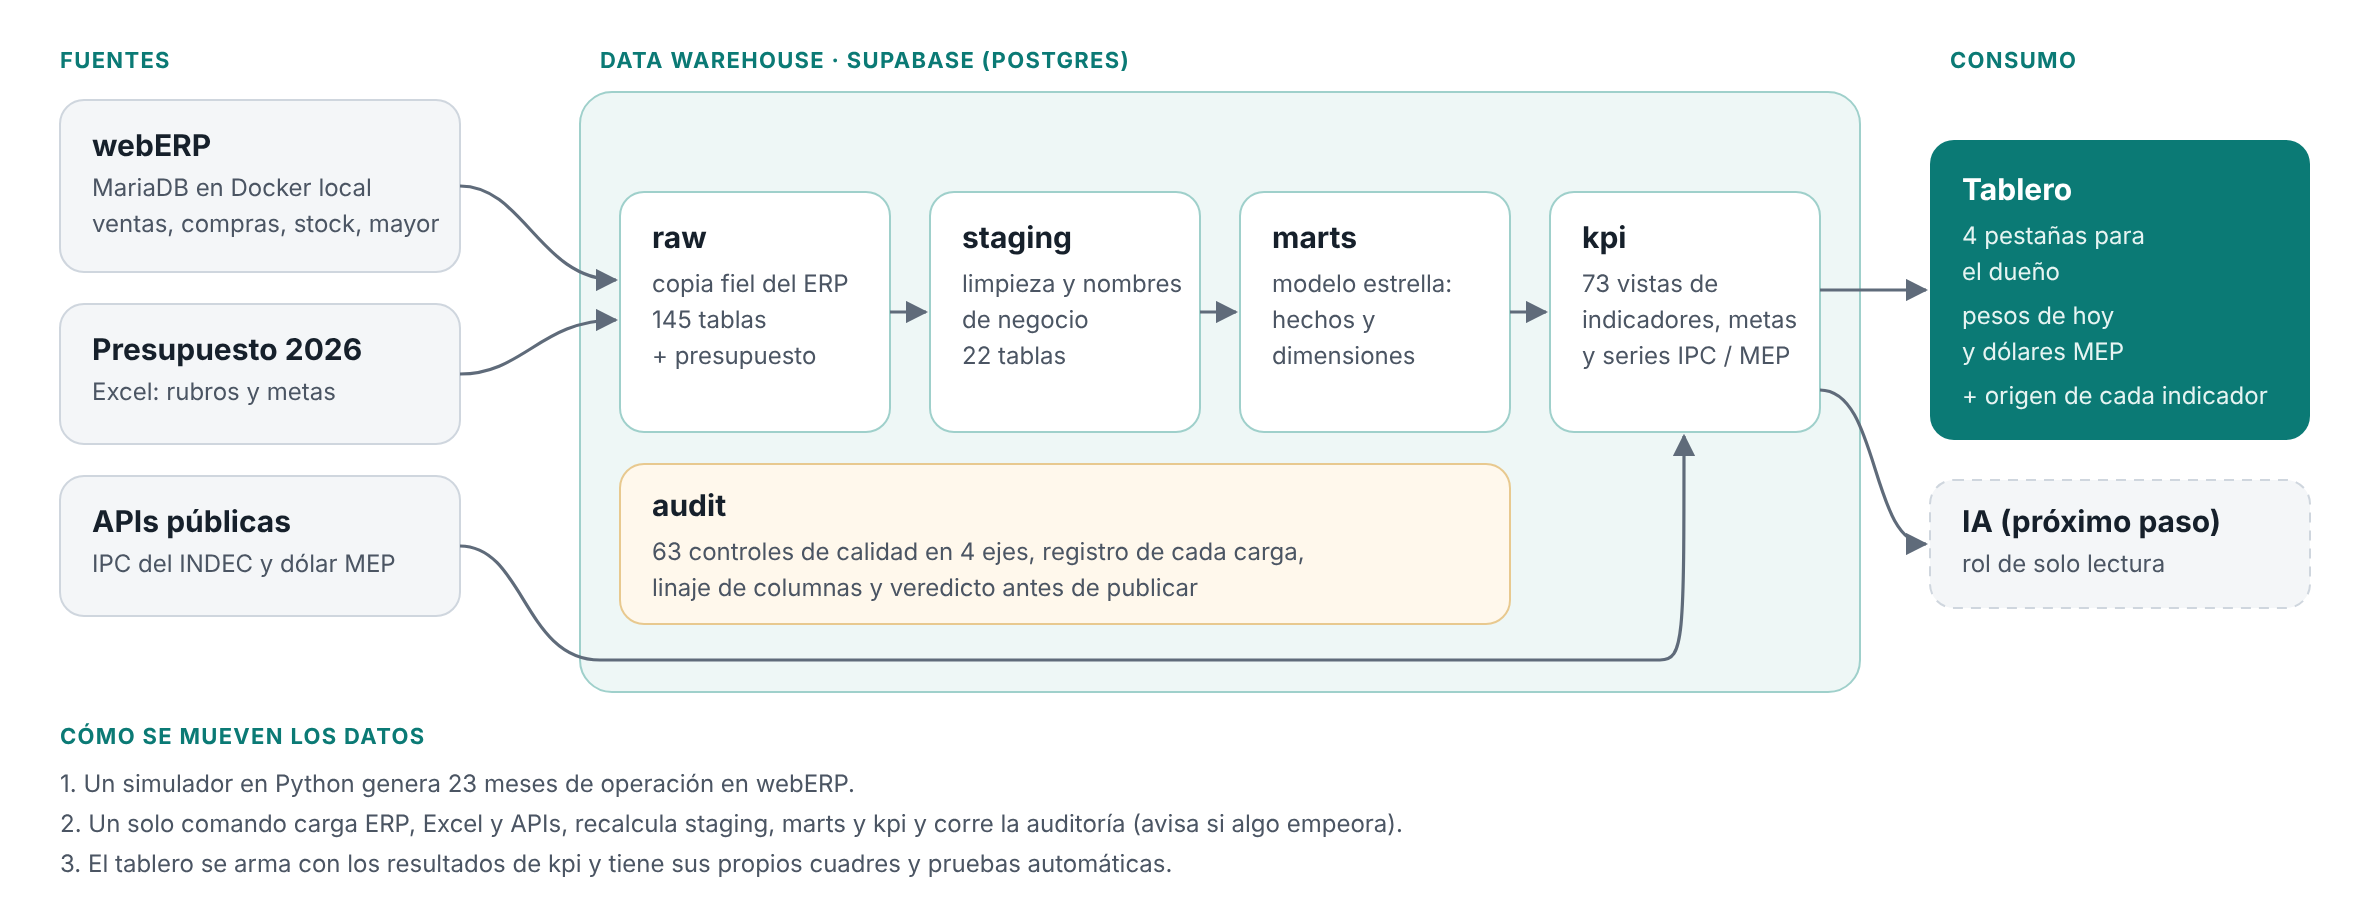
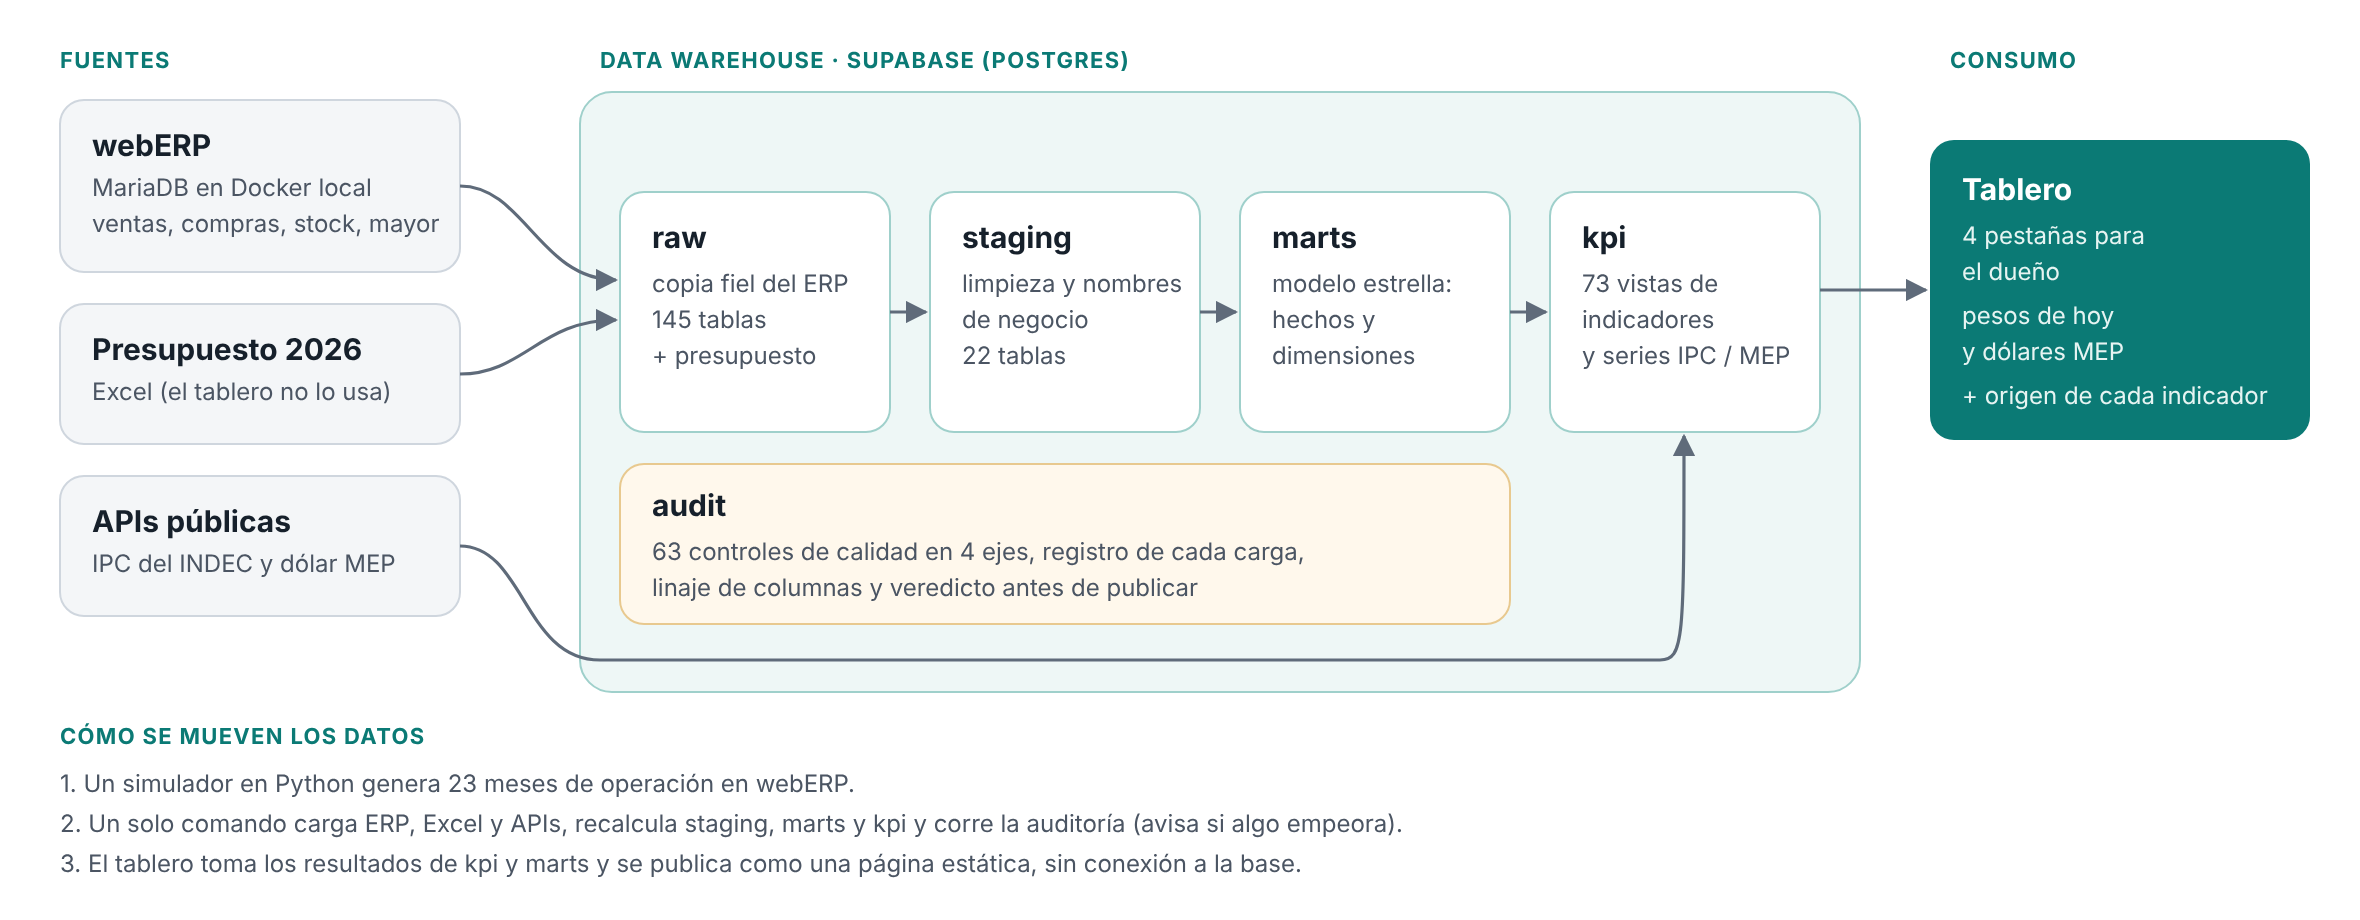
Documentación coherente con el tablero simplificado: qué usa el tablero y qué queda en el warehouse
Claude-Session: https://claude.ai/code/session_01BerP5tpH3fTpPqyTaaGzu5

diff --git a/docs/modelo_datos.md b/docs/modelo_datos.md
@@ -47,21 +47,23 @@ El libro mayor, que es la referencia contra la que se controla todo, y lo presup
 
 La decisión más importante de un hecho es su **grano**: qué es exactamente una fila. Define qué se puede sumar sin contar dos veces lo mismo.
 
-| Hecho | Una fila es… | Tipo |
-| --- | --- | --- |
-| `fact_ventas` | Una línea de factura de venta | Transaccional |
-| `fact_pedidos` | Una línea de pedido | Acumulativo: se completa al despachar y al facturar |
-| `fact_cuenta_corriente_cliente` | Una factura, con lo cobrado y lo que falta | Acumulativo |
-| `fact_cobranzas` | La aplicación de un cobro a una factura | Transaccional |
-| `fact_ordenes_compra` | Una línea de orden de compra | Acumulativo |
-| `fact_compras` | Una línea de factura de compra | Transaccional |
-| `fact_cuenta_corriente_proveedor` | Una factura de compra, con lo pagado y lo que falta | Acumulativo |
-| `fact_pagos_proveedor` | Un pago a un proveedor | Transaccional |
-| `fact_stock_movimiento` | Una entrada o salida de stock | Transaccional |
-| `fact_stock_saldo` | Producto × depósito × fecha de cierre | Foto periódica |
-| `fact_mayor` | Una línea de asiento contable | Transaccional |
-| `fact_presupuesto` | Mes × rubro del presupuesto | Plan |
-| `fact_metas_ventas` | Mes × canal × vendedor | Plan |
+| Hecho | Una fila es… | Tipo | Uso en el tablero |
+| --- | --- | --- | --- |
+| `fact_ventas` | Una línea de factura de venta | Transaccional | Ventas, unidades, margen, categorías, clientes que dejaron de comprar |
+| `fact_pedidos` | Una línea de pedido | Acumulativo: se completa al despachar y al facturar | Entregas en tiempo y forma |
+| `fact_cuenta_corriente_cliente` | Una factura, con lo cobrado y lo que falta | Acumulativo | Facturas vencidas sin cobrar, días de cobro, detalle de clientes |
+| `fact_cobranzas` | La aplicación de un cobro a una factura | Transaccional | Días de cobro |
+| `fact_ordenes_compra` | Una línea de orden de compra | Acumulativo | No se usa |
+| `fact_compras` | Una línea de factura de compra | Transaccional | No se usa |
+| `fact_cuenta_corriente_proveedor` | Una factura de compra, con lo pagado y lo que falta | Acumulativo | Días de pago, a pagar en 30 días, detalle de proveedores |
+| `fact_pagos_proveedor` | Un pago a un proveedor | Transaccional | Días de pago |
+| `fact_stock_movimiento` | Una entrada o salida de stock | Transaccional | No se usa (el stock sale de la foto de cierre) |
+| `fact_stock_saldo` | Producto × depósito × fecha de cierre | Foto periódica | Días de stock, mercadería que sobra y que falta |
+| `fact_mayor` | Una línea de asiento contable | Transaccional | Estado de resultados, márgenes, punto de equilibrio, caja y bancos |
+| `fact_presupuesto` | Mes × rubro del presupuesto | Plan | No se usa |
+| `fact_metas_ventas` | Mes × canal × vendedor | Plan | No se usa |
+
+El modelo se armó para un proyecto más amplio y después el tablero se simplificó: los hechos que dicen "No se usa" quedan en el warehouse, listos para crecer (por ejemplo, comparar contra el presupuesto o analizar compras), pero el tablero de hoy no los muestra.
 
 **Transaccional:** cada fila es un evento que no cambia. **Acumulativo:** cada fila es un documento que se va completando a medida que avanza (un pedido se despacha, se factura y se cobra). **Foto periódica:** cada fila es el estado de algo a una fecha.
 
@@ -101,5 +103,5 @@ Qué dimensiones usa cada hecho. Es la forma rápida de ver qué preguntas se pu
 | `raw` | Copia exacta de las 145 tablas del ERP, sin tocar |
 | `staging` | Los mismos datos, limpios y con nombres de negocio |
 | `marts` | El modelo de esta página: hechos y dimensiones |
-| `kpi` | Una vista por indicador, lista para el tablero |
+| `kpi` | Una vista por indicador (el tablero de hoy usa una parte) |
 | `audit` | Los controles de [calidad de datos](calidad_de_datos.md) |

diff --git a/README.md b/README.md
@@ -22,6 +22,8 @@ El dueño de una pyme distribuidora tiene los datos en el ERP, pero no las respu
 
 ![Arquitectura: ERP, warehouse en capas y tablero](docs/arquitectura.png)
 
+**El warehouse es más amplio que el tablero.** El proyecto empezó con un tablero más grande (balance, presupuesto, flujo de fondos) y después se simplificó para que el dueño vea solo lo esencial. El warehouse conserva todo lo que se cargó (por ejemplo, el presupuesto 2026 y las compras), pero el tablero de hoy usa solo una parte. El [modelo de datos](docs/modelo_datos.md) indica qué hechos usa el tablero y cuáles no.
+
 ## El tablero
 
 Muestra **agosto de 2026** y lo compara con **julio de 2026** (el mes anterior) y con **agosto de 2025** (el mismo mes del año anterior). Los saldos son al 31/08/2026.
